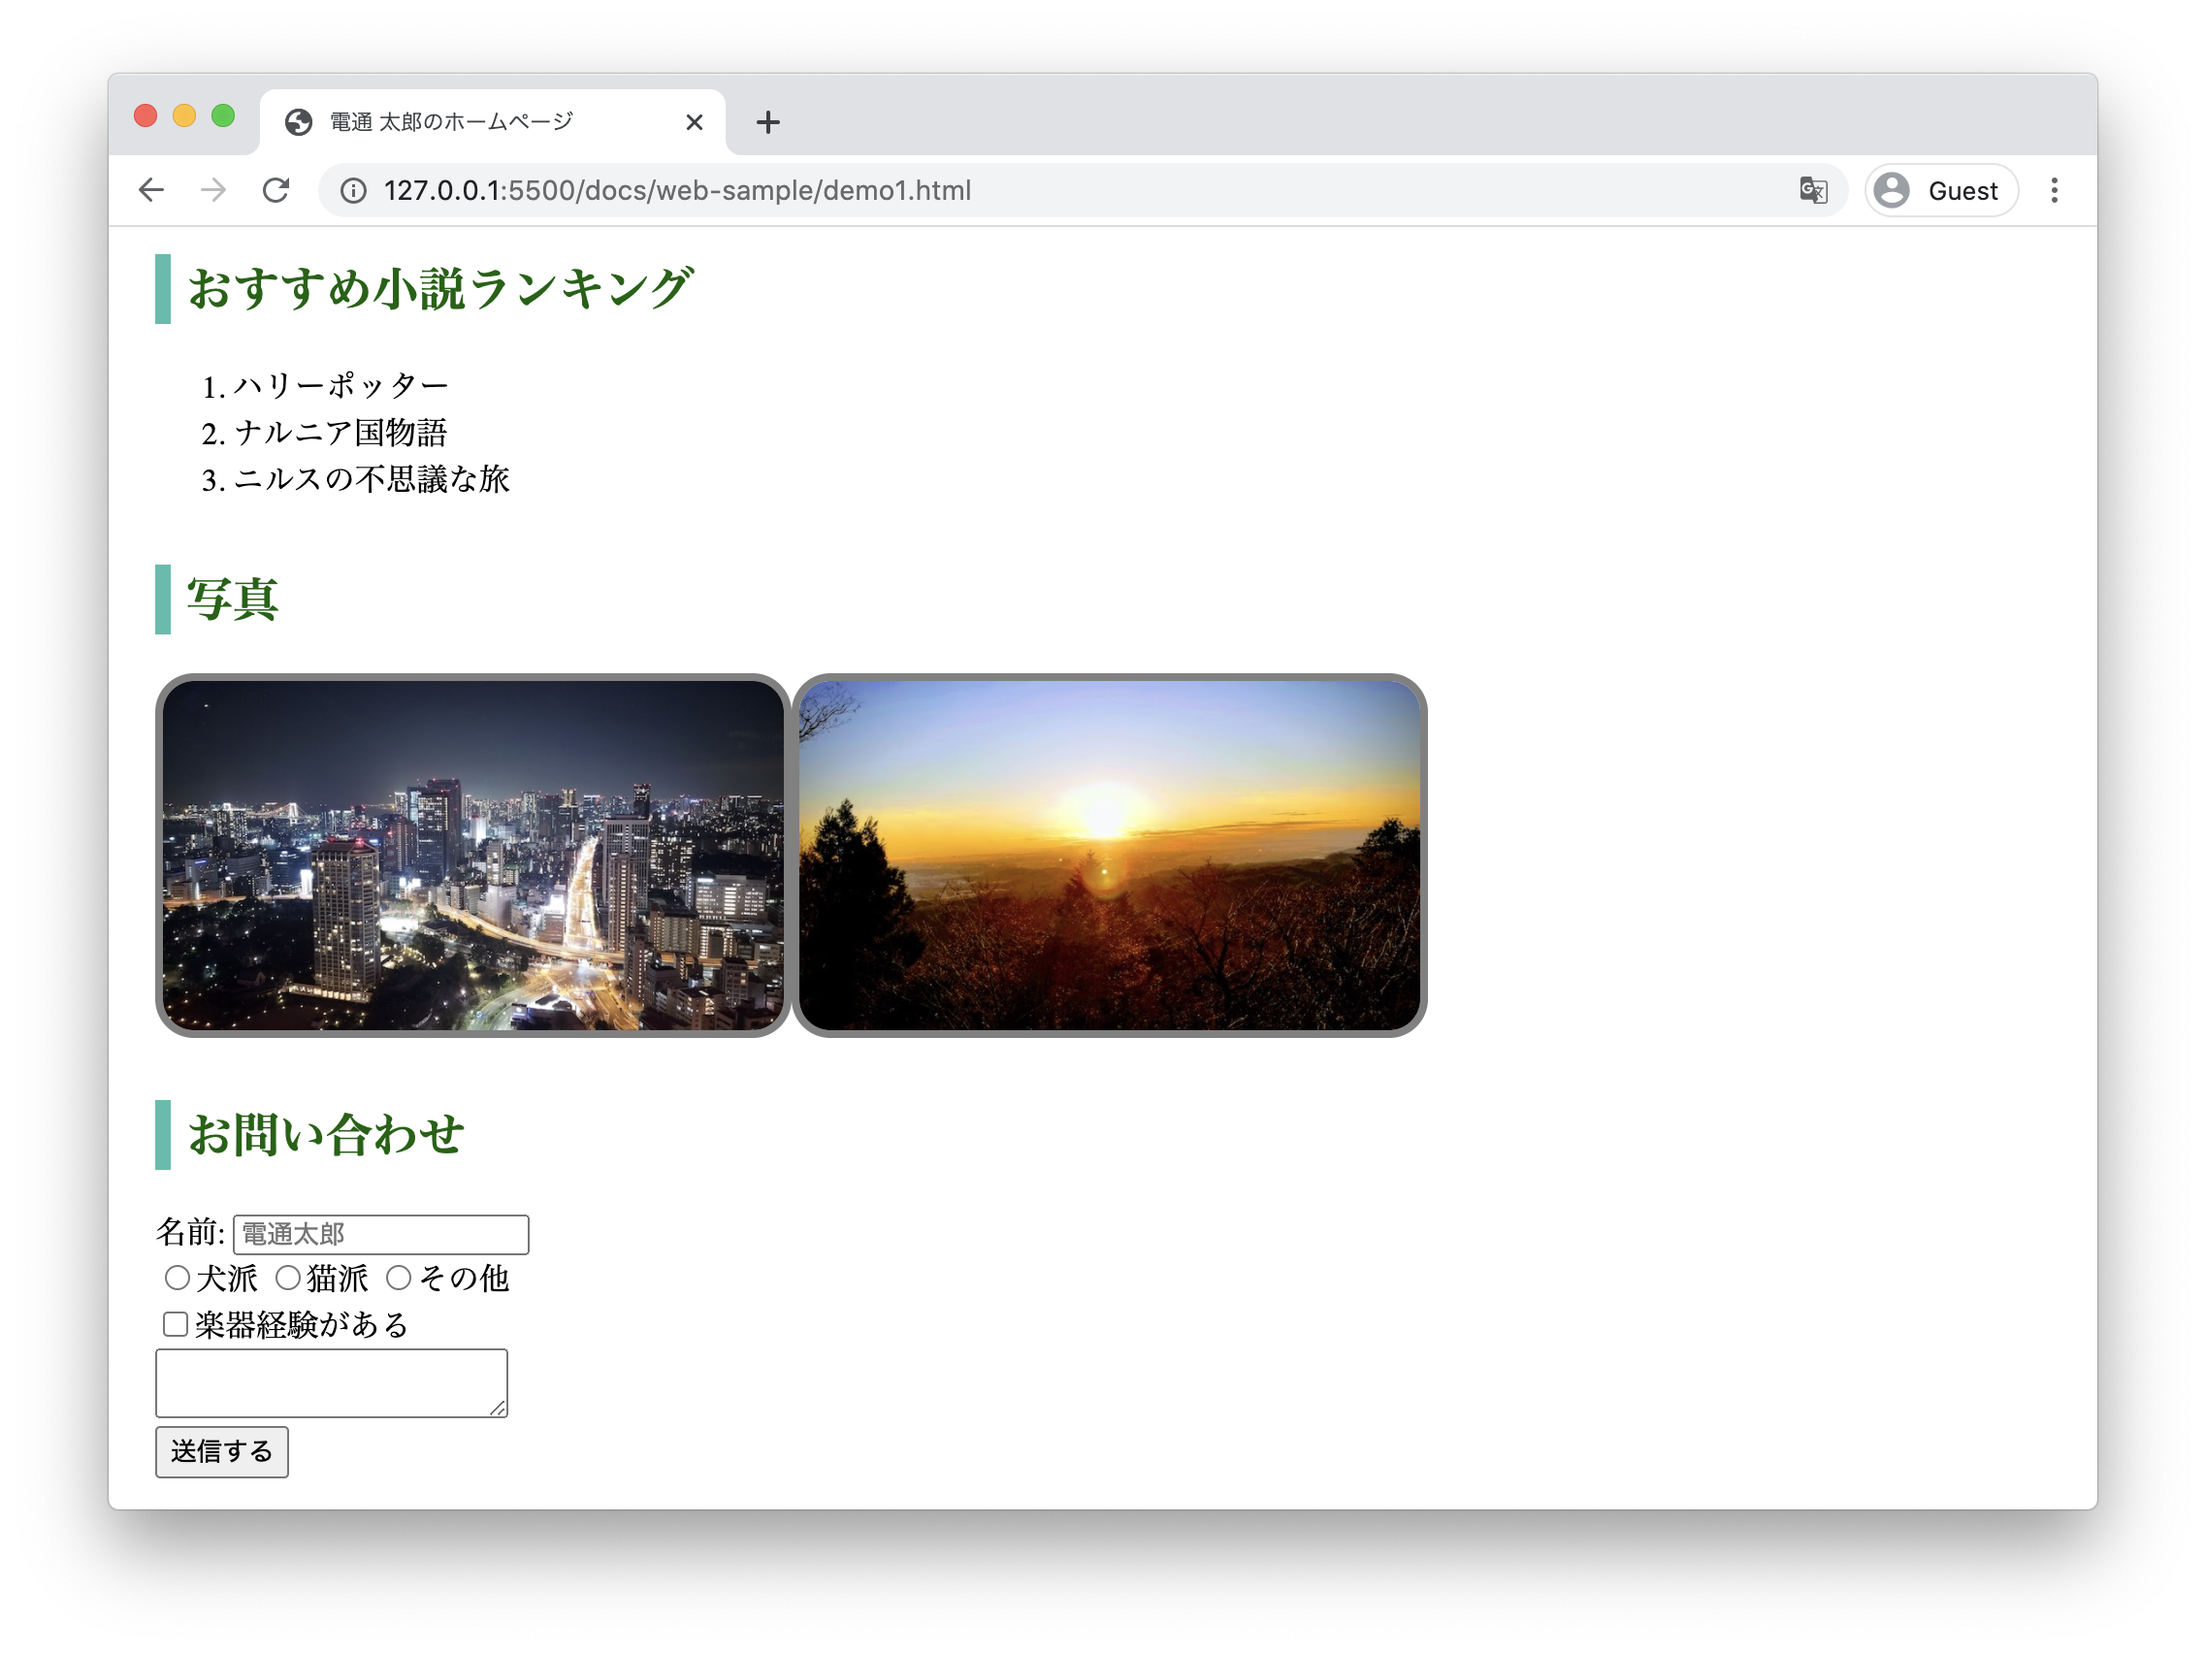
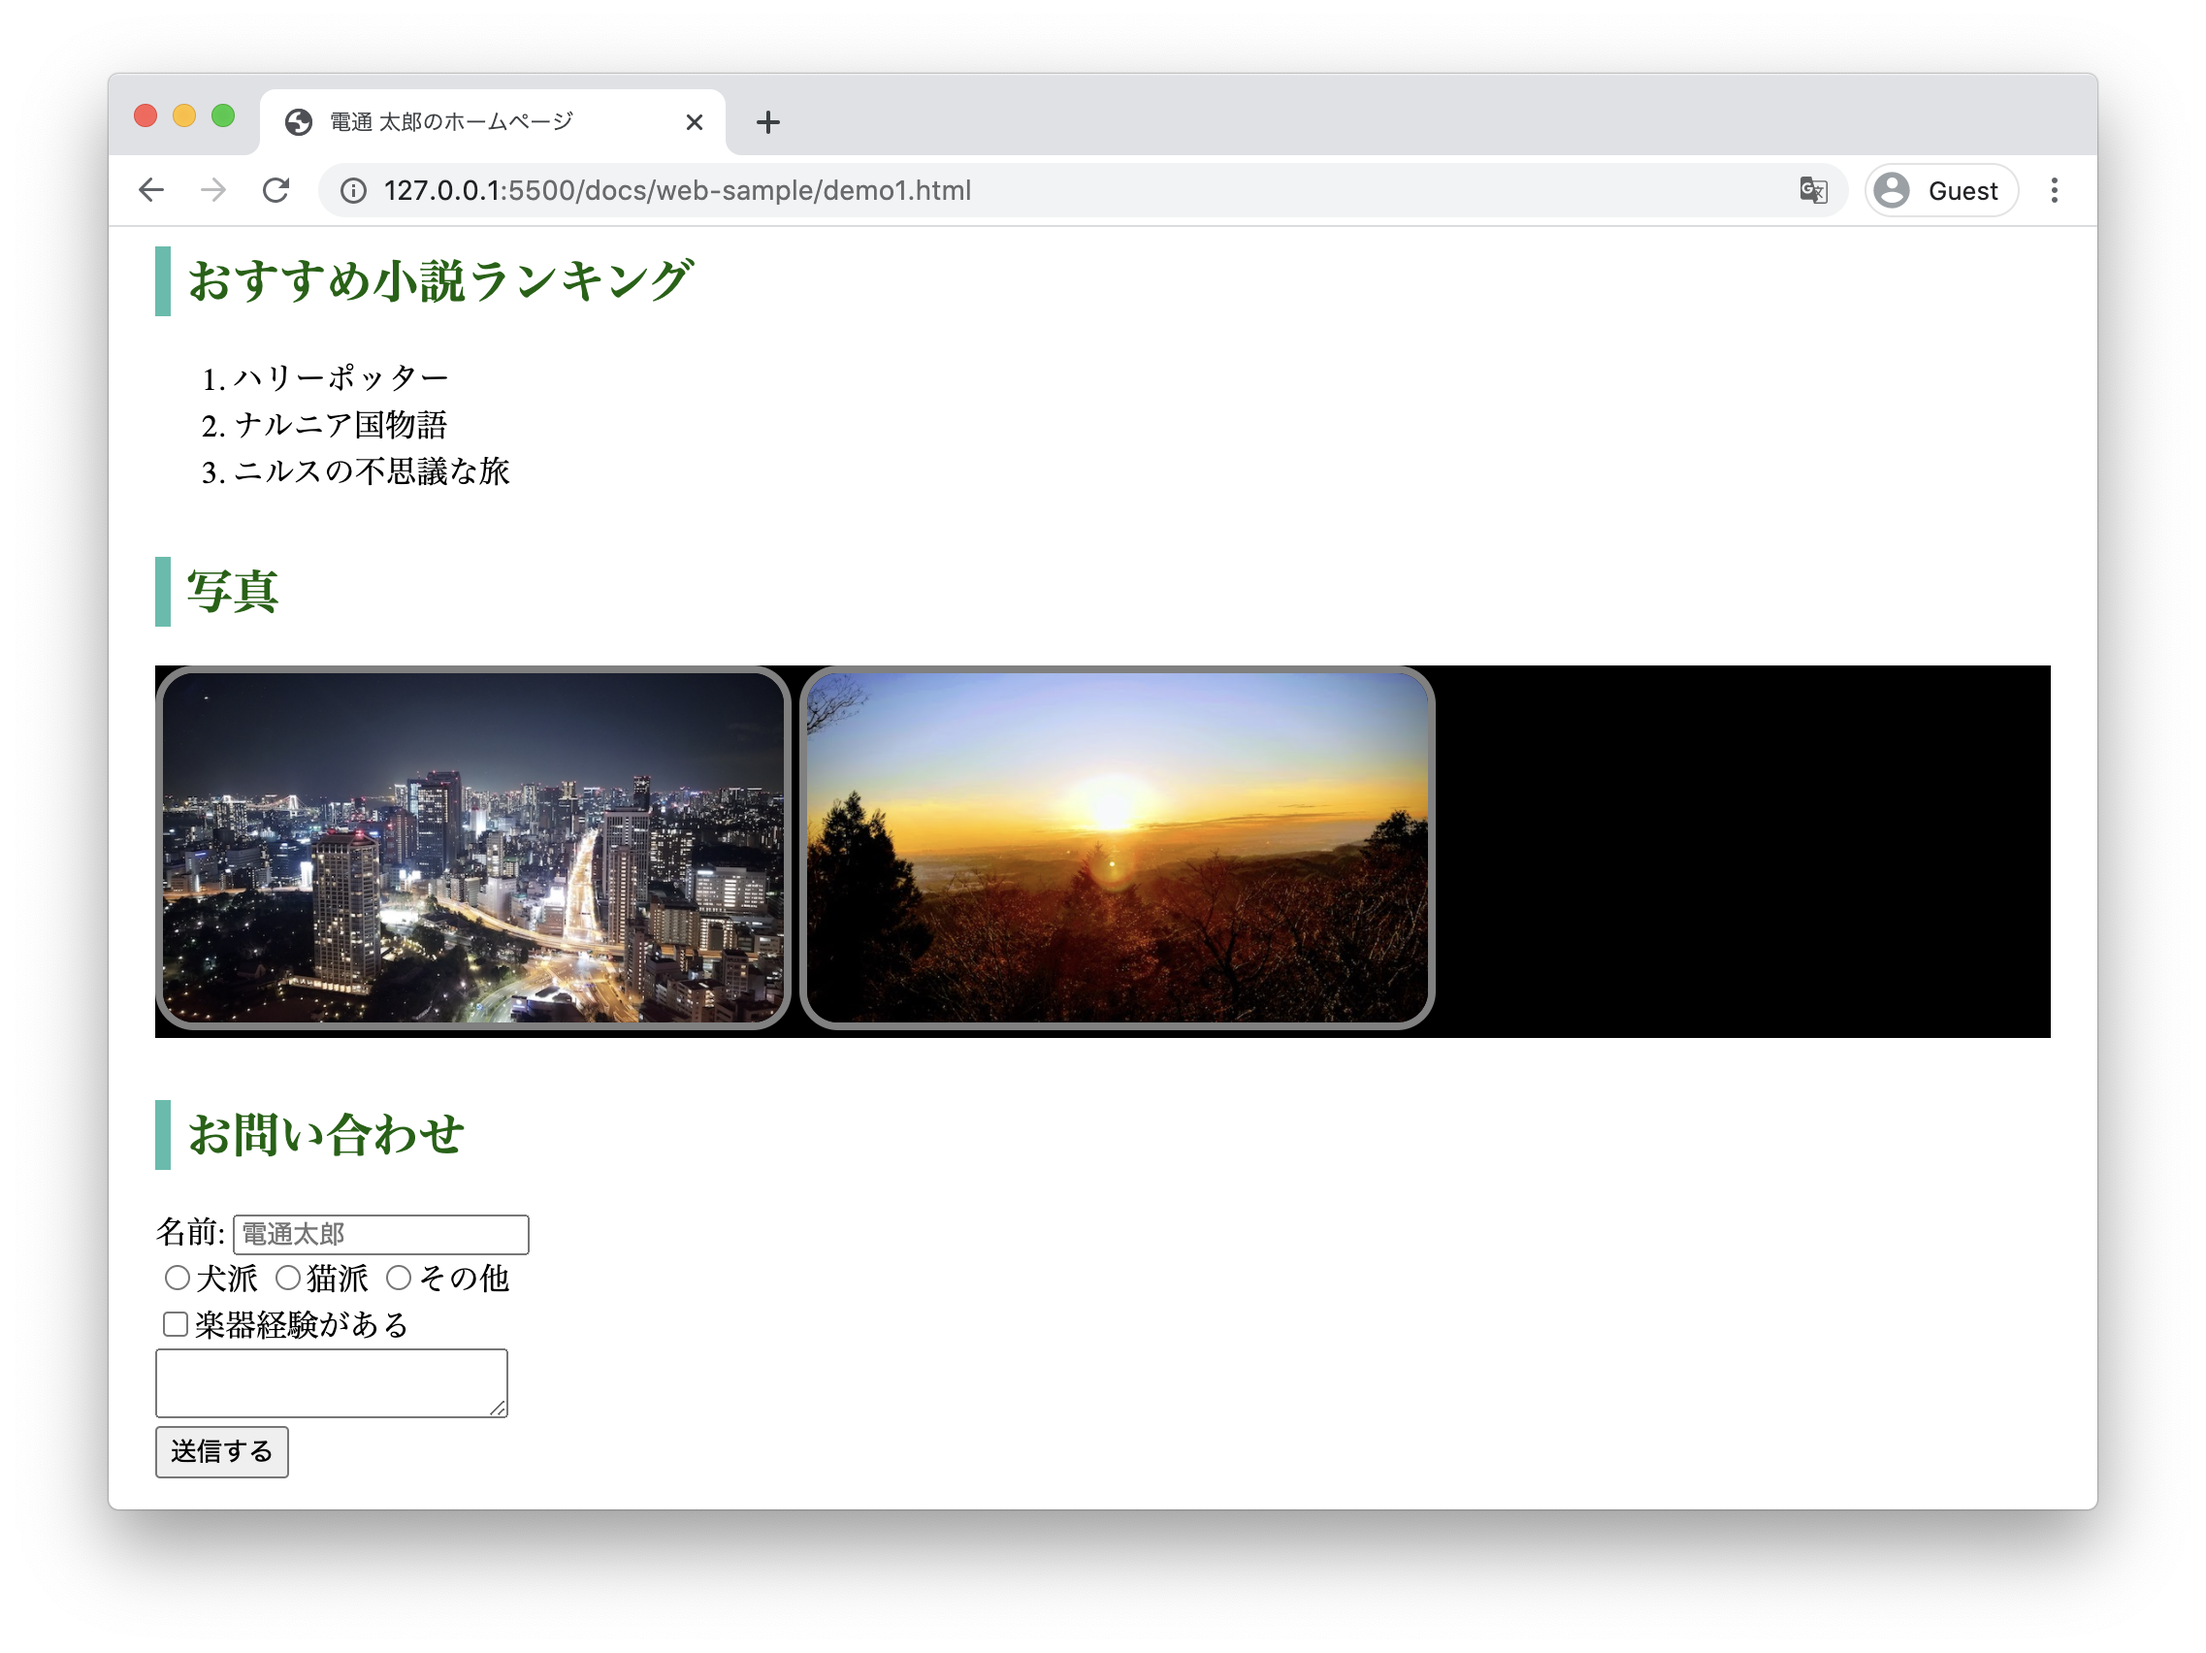
Style変更忘れ対応

diff --git a/docs/web-sample/demo1-19.html b/docs/web-sample/demo1-19.html
@@ -34,7 +34,7 @@
         color: orange;
       }
       .pictures {
-        display: flex;
+        background-color: black;
       }
       .cycling,
       .violine {

diff --git a/docs/web-sample/demo1.html b/docs/web-sample/demo1.html
@@ -34,7 +34,7 @@
         color: orange;
       }
       .pictures {
-        display: flex;
+        background-color: black;
       }
       .cycling,
       .violine {
